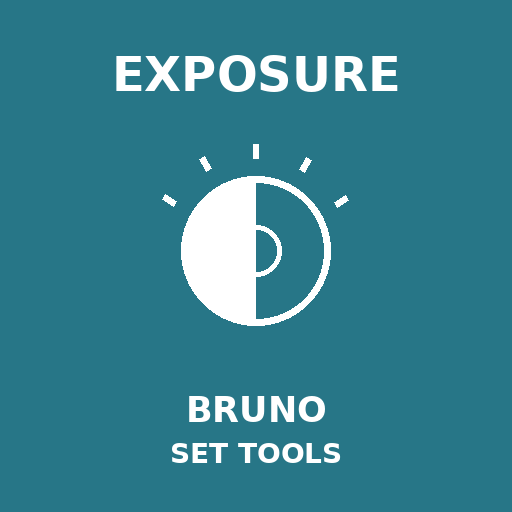
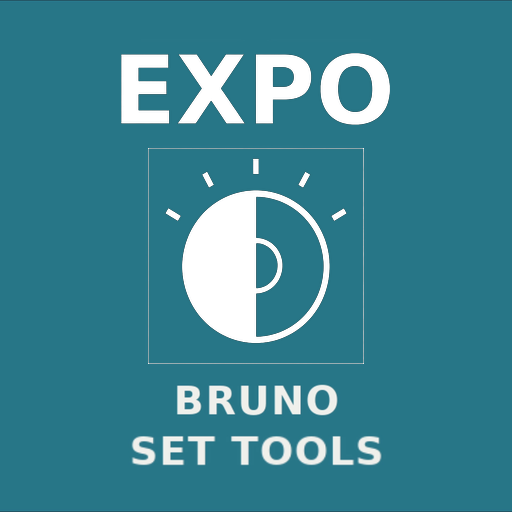
Add files via upload

Changed region(s): [[0.2188, 0.0938, 0.7812, 0.25], [0.3125, 0.2812, 0.6875, 0.6875], [0.25, 0.75, 0.75, 0.9062]]

diff --git a/index.html b/index.html
@@ -6,11 +6,11 @@
   <meta name="theme-color" id="themeColor" content="#F3F1EC" />
   <meta name="apple-mobile-web-app-capable" content="yes" />
   <meta name="apple-mobile-web-app-status-bar-style" content="black-translucent" />
-  <meta name="apple-mobile-web-app-title" content="EXPOSURE · BRUNO" />
-  <title>BRUNO SET TOOLS / EXPOSURE</title>
+  <meta name="apple-mobile-web-app-title" content="EXPO · BRUNO" />
+  <title>BRUNO SET TOOLS / EXPO</title>
   <link rel="manifest" href="manifest.webmanifest" />
   <link rel="apple-touch-icon" href="icon-192.png" />
-  <link rel="stylesheet" href="style.css?v=3.16" />
+  <link rel="stylesheet" href="style.css?v=3.18" />
 </head>
 <body>
   <main class="app" id="mainApp">
@@ -21,7 +21,7 @@
             <a class="eyebrow eyebrow-link" href="https://www.brunoguillard.com/" target="_blank" rel="noopener noreferrer">
               <span class="eyebrow-mark"></span>
               <span class="eyebrow-brand">BRUNO SET TOOLS</span>
-              <span class="eyebrow-tool">/ EXPOSURE</span>
+              <span class="eyebrow-tool">/ EXPO</span>
             </a>
           </div>
           <h1>Compensateur d’exposition</h1>
@@ -222,7 +222,7 @@
           <img class="footer-logo" src="logo-bruno-guillard.png" alt="" />
           <span>Made for the set · Bruno Guillard</span>
         </a>
-        <span class="app-version">v3.16</span>
+        <span class="app-version">v3.18</span>
       </div>
     </footer>
   </main>
@@ -349,7 +349,7 @@
   <dialog id="infoDialog">
     <div class="dialog-inner">
       <button id="closeDialog" class="close" aria-label="Fermer">×</button>
-      <div class="dialog-kicker">BRUNO SET TOOLS / EXPOSURE</div>
+      <div class="dialog-kicker">BRUNO SET TOOLS / EXPO</div>
       <h2>Comment lire le résultat</h2>
       <p><strong>+1 stop</strong> signifie que le nouveau réglage donne un niveau d’exposition équivalent deux fois plus élevé que le réglage de départ.</p>
       <p><strong>−1 stop</strong> signifie deux fois moins.</p>
@@ -357,6 +357,6 @@
     </div>
   </dialog>
 
-  <script src="app.js?v=3.16"></script>
+  <script src="app.js?v=3.18"></script>
 </body>
 </html>

diff --git a/sw.js b/sw.js
@@ -1,5 +1,5 @@
-const CACHE="bruno-set-tools-exposure-v3.16";
-const ASSETS=["./","./index.html","./style.css?v=3.16","./app.js?v=3.16","./manifest.webmanifest","./icon-192.png","./icon-512.png","./logo-bruno-guillard.png"];
+const CACHE="bruno-set-tools-expo-v3.18";
+const ASSETS=["./","./index.html","./style.css?v=3.18","./app.js?v=3.18","./manifest.webmanifest","./icon-192.png","./icon-512.png","./logo-bruno-guillard.png"];
 self.addEventListener("install",e=>{e.waitUntil(caches.open(CACHE).then(c=>c.addAll(ASSETS)));self.skipWaiting();});
 self.addEventListener("activate",e=>{e.waitUntil(caches.keys().then(keys=>Promise.all(keys.filter(k=>k!==CACHE).map(k=>caches.delete(k)))));self.clients.claim();});
 self.addEventListener("fetch",e=>{
